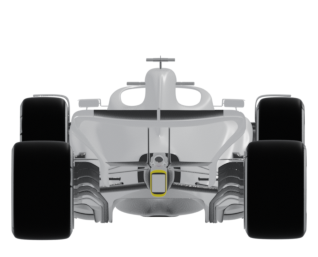
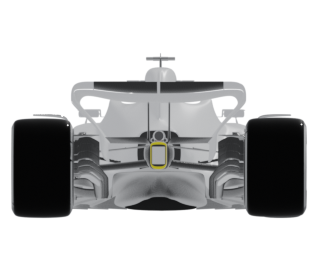
Onboard: carro visto de trás renderizado com a câmera reta (inclinada parecia empinando)

Changed region(s): [[0.0283, 0.2802, 0.9906, 0.965], [0.4528, 0.2179, 0.566, 0.249]]

diff --git a/art/render_traseira.py b/art/render_traseira.py
@@ -35,9 +35,9 @@ cam.type = "ORTHO"
 cam.ortho_scale = W + 2 * pad
 co = bpy.data.objects.new("tras", cam)
 sc.collection.objects.link(co)
-# atrás do carro (+Y), um pouco acima, olhando pra frente (-Y) levemente pra baixo
-co.location = ((mn.x + mx.x) / 2, mx.y + 12, (mn.z + mx.z) / 2 + 0.02 + math.tan(math.radians(5)) * (12 + (mx.y - mn.y) / 2))
-co.rotation_euler = (math.radians(85), 0, math.radians(180))
+# atrás do carro (+Y), na altura dele, olhando reto pra frente (-Y): sem ver o "teto" (inclinado parecia empinando)
+co.location = ((mn.x + mx.x) / 2, mx.y + 12, (mn.z + mx.z) / 2 + 0.05)
+co.rotation_euler = (math.radians(90), 0, math.radians(180))
 sc.camera = co
 sc.render.resolution_x = round((W + 2 * pad) * PXM)
 sc.render.resolution_y = round((Hh + 2 * pad + 0.5) * PXM)
